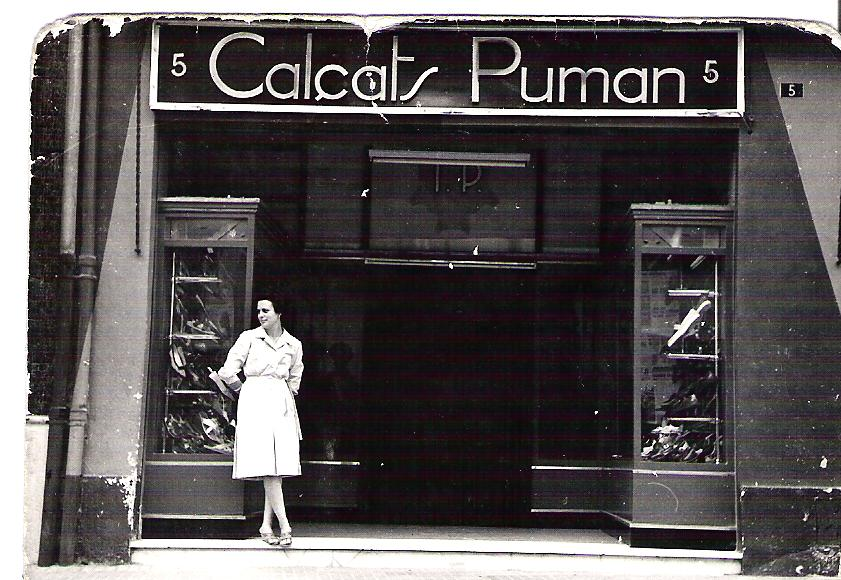
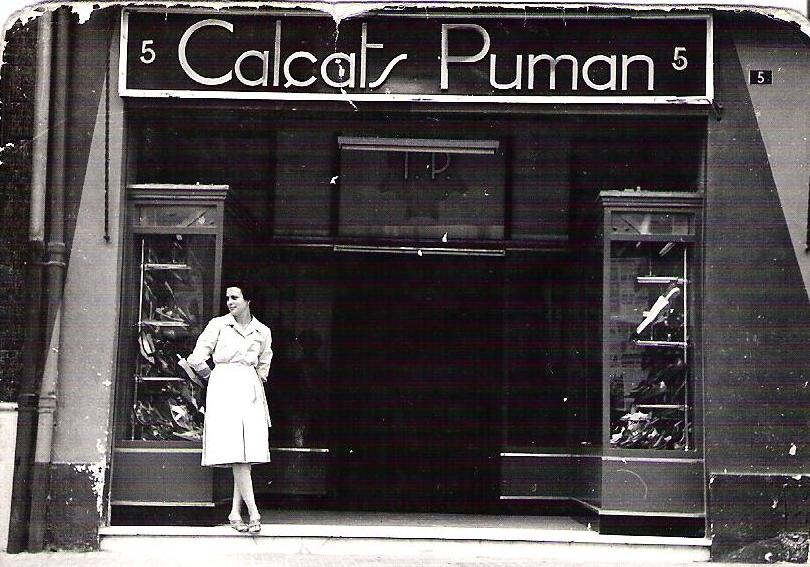
Typos and photos

diff --git a/index.html b/index.html
@@ -63,7 +63,7 @@
             </div>
           </div>
           <div class="slide">
-            <img src="img/Puman1970.jpg"  />
+            <img src="img/Puman-1980.jpg"  />
             <div class="slide__text">
               <h3>Anys 80</h3>
               <p>
@@ -105,8 +105,6 @@
             </dd>
             <dt><h3>Telèfon <i class="fa fa-phone"></i></h3></dt>
             <dd><a href="tel:+34935700387">+34 93 570 03 87</a></dd>
-            <dt><h3>E-mail <i class="fa fa-envelope"></i></h3></dt>
-            <dd><a href="mailto:info@pumansabaters.com">info@pumansabaters.com</a></dd>
           </dl>
         </div>
         <div class="col-sm-6 col-xs-12">
@@ -121,7 +119,7 @@
                 </dd>
                 <dt>Dimarts a Divendres</dt>
                 <dd>
-                  Matí: 9:00 - 13:00 <br />
+                  Matí: 9:30 - 13:00 <br />
                   Tarda: 16:45 - 20:30
                 </dd>
                 <dt>Dissabte</dt>

diff --git a/css/main.css b/css/main.css
@@ -37,6 +37,10 @@ hr {
   opacity: 0.5;
 }
 
+.slide img {
+  border: 5px white solid;
+}
+
 .slide img, .slide .slide__text {
   width: 80%;
   margin: 0 auto;
